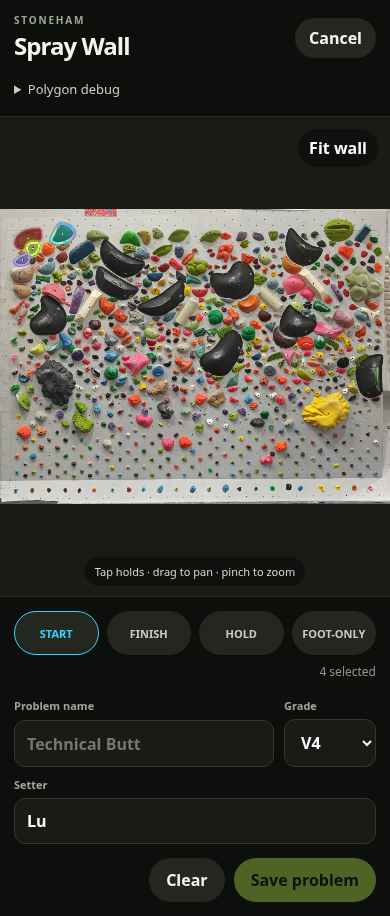
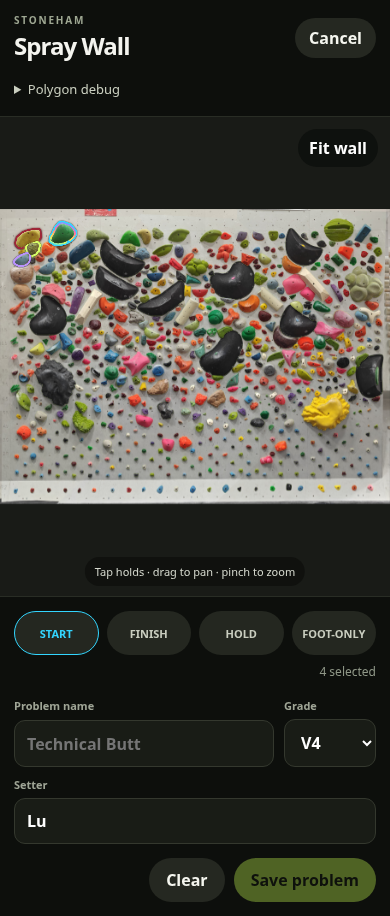
Keep hold interiors transparent and clip selection light to outer edges

diff --git a/src/App.tsx b/src/App.tsx
@@ -130,7 +130,8 @@ function WallViewer({
 
   const shownHolds = mode === 'set' ? draft : activeProblem?.holds ?? []
   const shownMap = useMemo(() => new Map(shownHolds.map((h) => [h.holdId, h.role])), [shownHolds])
-  const routeHolds = useMemo(() => mode === 'browse' ? holds.filter((hold) => shownMap.has(hold.id)) : [], [mode, shownMap])
+  const selectedHolds = useMemo(() => holds.filter((hold) => shownMap.has(hold.id)), [shownMap])
+  const routeHolds = mode === 'browse' ? selectedHolds : []
 
   const fit = () => {
     const viewport = viewportRef.current
@@ -246,10 +247,10 @@ function WallViewer({
         <img src={wallImage} className="wall-image" alt="Stoneham spray wall" draggable={false} />
         <svg className="wall-overlay" viewBox={`0 0 ${WALL_WIDTH} ${WALL_HEIGHT}`}>
           <defs>
-            {routeHolds.length > 0 && <mask id={routeMaskId} className="route-focus-mask" maskUnits="userSpaceOnUse"
+            {selectedHolds.length > 0 && <mask id={routeMaskId} className={`selection-outside-mask ${mode === 'browse' ? 'route-focus-mask' : ''}`} maskUnits="userSpaceOnUse"
               maskContentUnits="userSpaceOnUse" x={0} y={0} width={WALL_WIDTH} height={WALL_HEIGHT} style={{ maskType: 'luminance' }}>
               <rect width={WALL_WIDTH} height={WALL_HEIGHT} fill="white" />
-              {routeHolds.map((hold) => <polygon key={hold.id} points={polygonPoints(hold)} fill="black" />)}
+              {selectedHolds.map((hold) => <polygon key={hold.id} points={polygonPoints(hold)} fill="black" />)}
             </mask>}
             <linearGradient id={selectionGradientId} x1="0" y1="0" x2="1" y2="1" gradientUnits="objectBoundingBox">
               <stop offset="0%" stopColor="#33d6ff" />
@@ -275,27 +276,22 @@ function WallViewer({
           </g>
           {routeHolds.length > 0 && <rect className="route-gray-layer" width={WALL_WIDTH} height={WALL_HEIGHT}
             fill="#686d67" fillOpacity={0.72} mask={`url(#${routeMaskId})`} aria-hidden="true" />}
-          {holds.map((hold) => {
-            const role = shownMap.get(hold.id)
-            const [cx, cy] = toWallPoint(hold.center)
-            return (
-              <g key={hold.id}>
-                {role && (
-                  <>
-                    {!(mode === 'set' && highlightedHoldId === hold.id) && <polygon
-                      className={`selected-glow ${roleClass(role)}`} points={polygonPoints(hold)} aria-hidden="true" />}
-                    <polygon className={`selected-hold ${roleClass(role)} ${mode === 'set' && highlightedHoldId === hold.id ? 'is-current' : ''}`} points={polygonPoints(hold)} />
-                    {mode === 'set' && highlightedHoldId === hold.id && <polygon className="selected-rainbow" points={polygonPoints(hold)} pathLength={100}
-                      stroke={`url(#${selectionGradientId})`} aria-hidden="true" />}
-                  </>
-                )}
-                {mode === 'set' && (
-                  <polygon className="hold-hit-polygon" points={polygonPoints(hold)} data-hold-id={hold.id} />
-                )}
-                {role && <circle className="selected-center" cx={cx} cy={cy} r={3.5} />}
-              </g>
-            )
-          })}
+          {selectedHolds.length > 0 && <g className="selection-effects" mask={`url(#${routeMaskId})`}>
+            {selectedHolds.map((hold) => {
+              const role = shownMap.get(hold.id)!
+              const isCurrent = mode === 'set' && highlightedHoldId === hold.id
+              return (
+                <g key={hold.id}>
+                  {!isCurrent && <polygon className={`selected-glow ${roleClass(role)}`} points={polygonPoints(hold)} aria-hidden="true" />}
+                  <polygon className={`selected-hold ${roleClass(role)} ${isCurrent ? 'is-current' : ''}`} points={polygonPoints(hold)} />
+                  {isCurrent && <polygon className="selected-rainbow" points={polygonPoints(hold)} pathLength={100}
+                    stroke={`url(#${selectionGradientId})`} aria-hidden="true" />}
+                </g>
+              )
+            })}
+          </g>}
+          {mode === 'set' && holds.map((hold) => <polygon key={hold.id}
+            className={`hold-hit-polygon ${shownMap.has(hold.id) ? 'is-selected' : ''}`} points={polygonPoints(hold)} data-hold-id={hold.id} />)}
         </svg>
       </div>
       <button className="fit-button" onPointerUp={(e) => { e.stopPropagation(); fit() }} onClick={fit}>Fit wall</button>

diff --git a/src/styles.css b/src/styles.css
@@ -29,7 +29,8 @@ button { touch-action: manipulation; -webkit-tap-highlight-color: transparent; }
 .wall-stage { position: absolute; width: 100%; height: 100%; transform-origin: 0 0; will-change: transform; }
 .wall-image { position: absolute; inset: 0; width: 100%; height: 100%; user-select: none; pointer-events: none; }
 .wall-overlay { position: absolute; inset: 0; width: 100%; height: 100%; overflow: visible; }
-.hold-hit-polygon { fill: rgba(205, 255, 83, .015); stroke: rgba(205,255,83,.08); stroke-width: 2; cursor: pointer; vector-effect: non-scaling-stroke; }
+.hold-hit-polygon { fill: transparent; stroke: rgba(205,255,83,.08); stroke-width: 2; cursor: pointer; vector-effect: non-scaling-stroke; }
+.hold-hit-polygon.is-selected { stroke: none; }
 .route-gray-layer { pointer-events: none; }
 .role-start { --role-color: #33d6ff; }
 .role-finish { --role-color: #9e2637; }
@@ -37,16 +38,15 @@ button { touch-action: manipulation; -webkit-tap-highlight-color: transparent; }
 .role-foot-only { --role-color: #b992ff; }
 .selected-glow { pointer-events: none; fill: none; stroke: var(--role-color); stroke-width: 18; stroke-linejoin: round; vector-effect: non-scaling-stroke; filter: blur(2px) drop-shadow(0 0 5px var(--role-color)); animation: hold-light-pulse 2.6s ease-in-out infinite; }
 @keyframes hold-light-pulse { 0%, 100% { opacity: .2; } 50% { opacity: .7; } }
-.selected-hold { pointer-events: none; stroke-width: 7; stroke-linejoin: round; vector-effect: non-scaling-stroke; filter: drop-shadow(0 1px 3px rgba(0,0,0,.85)); }
-.selected-hold.is-current { stroke-width: 11; }
-.selected-hold.role-hold { fill: rgba(215,255,101,.28); stroke: #d7ff65; }
-.selected-hold.role-start { fill: rgba(51,214,255,.3); stroke: #33d6ff; }
-.selected-hold.role-foot-only { fill: rgba(185,146,255,.26); stroke: #b992ff; }
-.selected-hold.role-finish { fill: rgba(158,38,55,.3); stroke: #9e2637; }
-.selected-rainbow { pointer-events: none; fill: none; stroke-width: 6; stroke-linejoin: round; stroke-linecap: round; vector-effect: non-scaling-stroke; stroke-dasharray: 22 4 12 4 8 4 12 4 22 8; animation: selected-rainbow-orbit 3s linear infinite; }
+.selected-hold { pointer-events: none; fill: none; stroke-width: 14; stroke-linejoin: round; vector-effect: non-scaling-stroke; filter: drop-shadow(0 1px 3px rgba(0,0,0,.85)); }
+.selected-hold.is-current { stroke-width: 22; }
+.selected-hold.role-hold { stroke: #d7ff65; }
+.selected-hold.role-start { stroke: #33d6ff; }
+.selected-hold.role-foot-only { stroke: #b992ff; }
+.selected-hold.role-finish { stroke: #9e2637; }
+.selected-rainbow { pointer-events: none; fill: none; stroke-width: 12; stroke-linejoin: round; stroke-linecap: round; vector-effect: non-scaling-stroke; stroke-dasharray: 22 4 12 4 8 4 12 4 22 8; animation: selected-rainbow-orbit 3s linear infinite; }
 @keyframes selected-rainbow-orbit { to { stroke-dashoffset: -100; } }
 @media (prefers-reduced-motion: reduce) { .selected-rainbow { animation: none; stroke-dasharray: none; } .selected-glow { animation: none; opacity: .4; } }
-.selected-center { pointer-events: none; fill: #fff; stroke: rgba(0,0,0,.75); stroke-width: 1.5; vector-effect: non-scaling-stroke; }
 .fit-button { position: absolute; right: 12px; top: 12px; padding: 8px 11px; background: rgba(12,14,11,.78); color: white; backdrop-filter: blur(8px); }
 .tap-hint { position: absolute; left: 50%; bottom: 10px; transform: translateX(-50%); white-space: nowrap; font-size: 11px; color: #d6d9ce; background: rgba(12,14,11,.72); padding: 7px 10px; border-radius: 999px; backdrop-filter: blur(8px); }
 

diff --git a/README.md b/README.md
@@ -107,3 +107,8 @@ a gray wall overlay has cutouts for the current route's holds so those holds ret
 the original photo colors. The overlay is absent while setting or before choosing
 a route, and follows the image during pan/zoom. Reduced-motion preferences keep
 static halos. The hold-role browser test covers pulse, mask holes and route switching.
+
+Selection effects are now masked to the outside of confirmed hold polygons. Hold
+interiors have no fill or center marker, so the original wall photo stays visible;
+solid borders, rainbow accents and pulsing light remain outside the shape. The
+browser test compares interior screenshot pixels with the unmodified wall view.
